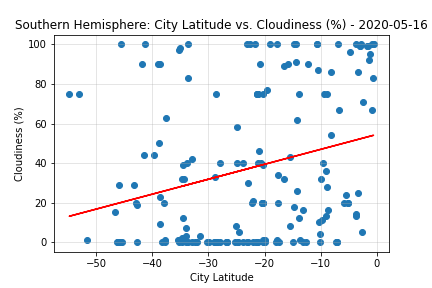
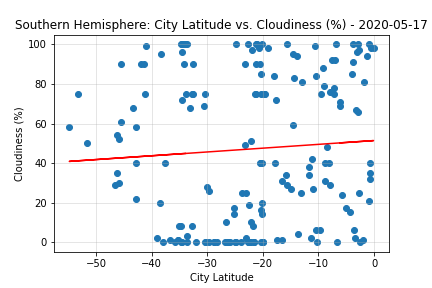
Added linear regression plots

diff --git a/temperature.html b/temperature.html
@@ -53,14 +53,44 @@
 <div class="jumbotron m-5">
     <h1 class="display-4">Latitude vs. Temperature</h1>
     <hr class="my-4">
+    <div class="row ml-5">
+        <h2>Scatter Plot - Northern and Southern Hemispheres</h2>
+    </div>
     <div class="row">
         <div class="col-5">
-            <img class="mt-3" src="Images/Lat_vs_Temp.png" alt="Latitude vs. Temperature">
+            <img class="mt-3 ml-5" src="Images/Lat_vs_Temp.png" alt="Latitude vs. Temperature">
         </div>
-        <div class="col-6 mt-3">
+        <div class="col-6 mt-3 mr-3">
             <p>This plot confirms the commonly known fact that temperature is significantly warmer in areas closer to the equator.
-                At the time that this data was collected, the southern hemisphere was experiencing warmer temperatures than the northern 
-                hemisphere, due to the Earth's tilt.
+                At the time that this data was collected, the southern and northern hemispheres were experiencing similar temperatures.
+            </p>
+        </div>
+    </div>
+    <br><br>
+    <div class="row ml-5">
+        <h2>Linear Regression - Northern Hemisphere</h2>
+    </div>
+    <div class="row">
+        <div class="col-5">
+            <img class="mt-3 ml-5" src="Images/North_Lat_vs_Temp_LinRegress.png" alt="Latitude vs Temperature Linear Regression">
+        </div>
+        <div class="col-6 mt-3 mr-3">
+            <p>The linear regression plot demonstrates a strong inverse correlation between city latitude 
+                and temperature in the northern hemisphere. The r-squared value is 0.73.
+            </p>
+        </div>
+    </div>
+    <br><br>
+    <div class="row ml-5">
+        <h2>Linear Regression - Southern Hemisphere</h2>
+    </div>
+    <div class="row">
+        <div class="col-5">
+            <img class="mt-3 ml-5" src="Images/South_Lat_vs_Temp_LinRegress.png" alt="Latitude vs Temperature Linear Regression">
+        </div>
+        <div class="col-6 mt-3 mr-3">
+            <p>Similarly, there is a strong inverse correlation between city latitude 
+                and temperature in the southern hemisphere as well. The r-squared value is 0.61.
             </p>
         </div>
     </div>

diff --git a/cloudiness.html b/cloudiness.html
@@ -53,15 +53,46 @@
 <div class="jumbotron m-5">
     <h1 class="display-4">Latitude vs. Cloudiness</h1>
     <hr class="my-4">
+    <div class="row ml-5">
+        <h2>Scatter Plot - Northern and Southern Hemispheres</h2>
+    </div>
     <div class="row">
         <div class="col-5">
-            <img class="mt-3" src="Images/Lat_vs_Cloudiness.png" alt="Latitude vs. Cloudiness">
+            <img class="mt-3 ml-5" src="Images/Lat_vs_Cloudiness.png" alt="Latitude vs. Cloudiness">
         </div>
-        <div class="col-6 mt-3">
+        <div class="col-6 mt-3 mr-3">
             <p>According to our analysis, cloudiness varies greatly at all latitudes. There does not
                 appear to be a correlation between latitude and cloudiness. It was observed, however, 
                 that cities in the dataset tended to have either high cloudiness levels (above 80%) or low cloudiness
                 levels (below 20%). Fewer cities have cloudiness in the middle range.
+            </p>
+        </div>
+    </div>
+    <br><br>
+    <div class="row ml-5">
+        <h2>Linear Regression - Northern Hemisphere</h2>
+    </div>
+    <div class="row">
+        <div class="col-5">
+            <img class="mt-3 ml-5" src="Images/North_Lat_vs_Cloudiness_LinRegress.png" alt="Latitude vs Temperature Linear Regression">
+        </div>
+        <div class="col-6 mt-3 mr-3">
+            <p>Based on the linear regression analysis, there is no correlation between latitude and cloudiness in the 
+                northern hemisphere. The r-squared value is 0.002.
+            </p>
+        </div>
+    </div>
+    <br><br>
+    <div class="row ml-5">
+        <h2>Linear Regression - Southern Hemisphere</h2>
+    </div>
+    <div class="row">
+        <div class="col-5">
+            <img class="mt-3 ml-5" src="Images/South_Lat_vs_Cloudiness_LinRegress.png" alt="Latitude vs Temperature Linear Regression">
+        </div>
+        <div class="col-6 mt-3 mr-3">
+            <p>Similarly, there is no correlation between latitude and cloudiness in the 
+                southern hemisphere. The r-squared value is 0.005.
             </p>
         </div>
     </div>

diff --git a/humidity.html b/humidity.html
@@ -53,14 +53,45 @@
 <div class="jumbotron m-5">
     <h1 class="display-4">Latitude vs. Humidity</h1>
     <hr class="my-4">
+    <div class="row ml-5">
+        <h2>Scatter Plot - Northern and Southern Hemispheres</h2>
+    </div>
     <div class="row">
         <div class="col-5">
-            <img class="mt-3" src="Images/Lat_vs_Humidity.png" alt="Latitude vs. Humidity">
+            <img class="mt-3 ml-5" src="Images/Lat_vs_Humidity.png" alt="Latitude vs. Humidity">
         </div>
-        <div class="col-6 mt-3">
+        <div class="col-6 mt-3 ml-3">
             <p>According to the plot, humidity varies greatly at most latitudes. It appears that locations
                 near the equator (between -10° S and 10° N) have higher levels of humidity. However, there
                 is not enough evidence to determine whether there is a correlation between latitude and humidity.
+            </p>
+        </div>
+    </div>
+    <br><br>
+    <div class="row ml-5">
+        <h2>Linear Regression - Northern Hemisphere</h2>
+    </div>
+    <div class="row">
+        <div class="col-5">
+            <img class="mt-3 ml-5" src="Images/North_Lat_vs_Humidity_LinRegress.png" alt="Latitude vs Humidity Linear Regression">
+        </div>
+        <div class="col-6 mt-3 mr-3">
+            <p>Based on the linear regression analysis, there is no correlation between latitude and humidity in the 
+                northern hemisphere. The r-squared value is 0.005.
+            </p>
+        </div>
+    </div>
+    <br><br>
+    <div class="row ml-5">
+        <h2>Linear Regression - Southern Hemisphere</h2>
+    </div>
+    <div class="row">
+        <div class="col-5">
+            <img class="mt-3 ml-5" src="Images/South_Lat_vs_Temp_LinRegress.png" alt="Latitude vs Humidity Linear Regression">
+        </div>
+        <div class="col-6 mt-3 mr-3">
+            <p>According to the linear regression plot, there is no correlation between latitude and humidity in the 
+                southern hemisphere. The r-squared value is 0.03.
             </p>
         </div>
     </div>

diff --git a/windspeed.html b/windspeed.html
@@ -53,15 +53,46 @@
 <div class="jumbotron m-5">
     <h1 class="display-4">Latitude vs. Wind Speed</h1>
     <hr class="my-4">
+    <div class="row ml-5">
+        <h2>Scatter Plot - Northern and Southern Hemispheres</h2>
+    </div>
     <div class="row">
         <div class="col-5">
-            <img class="mt-3" src="Images/Lat_vs_WindSpeed.png" alt="Latitude vs. Wind Speed">
+            <img class="mt-3 ml-5" src="Images/Lat_vs_WindSpeed.png" alt="Latitude vs. Wind Speed">
         </div>
-        <div class="col-6 mt-3">
+        <div class="col-6 mt-3 mr-3">
             <p>Based on the plot, wind speed tends to vary greatly at all latitudes. There does
                 not appear to be a relationship between wind speed and latitude. At the time of
                 data collection, wind speed tended to be lower than 20 mph in the majority of cities
                 in the dataset.
+            </p>
+        </div>
+    </div>
+    <br><br>
+    <div class="row ml-5">
+        <h2>Linear Regression - Northern Hemisphere</h2>
+    </div>
+    <div class="row">
+        <div class="col-5">
+            <img class="mt-3 ml-5" src="Images/North_Lat_vs_WindSpeed_LinRegress.png" alt="Latitude vs Wind Speed Linear Regression">
+        </div>
+        <div class="col-6 mt-3 mr-3">
+            <p>According to the linear regression analysis, there is no correlation between latitude 
+                and wind speed in the northern hemisphere. The r-squared value is 0.0008.
+            </p>
+        </div>
+    </div>
+    <br><br>
+    <div class="row ml-5">
+        <h2>Linear Regression - Southern Hemisphere</h2>
+    </div>
+    <div class="row">
+        <div class="col-5">
+            <img class="mt-3 ml-5" src="Images/South_Lat_vs_WindSpeed_LinRegress.png" alt="Latitude vs Wind Speed Linear Regression">
+        </div>
+        <div class="col-6 mt-3 mr-3">
+            <p>Similarly, there is no correlation between latitude and wind speed in the southern 
+                hemisphere. The r-squared value is 0.008.
             </p>
         </div>
     </div>
